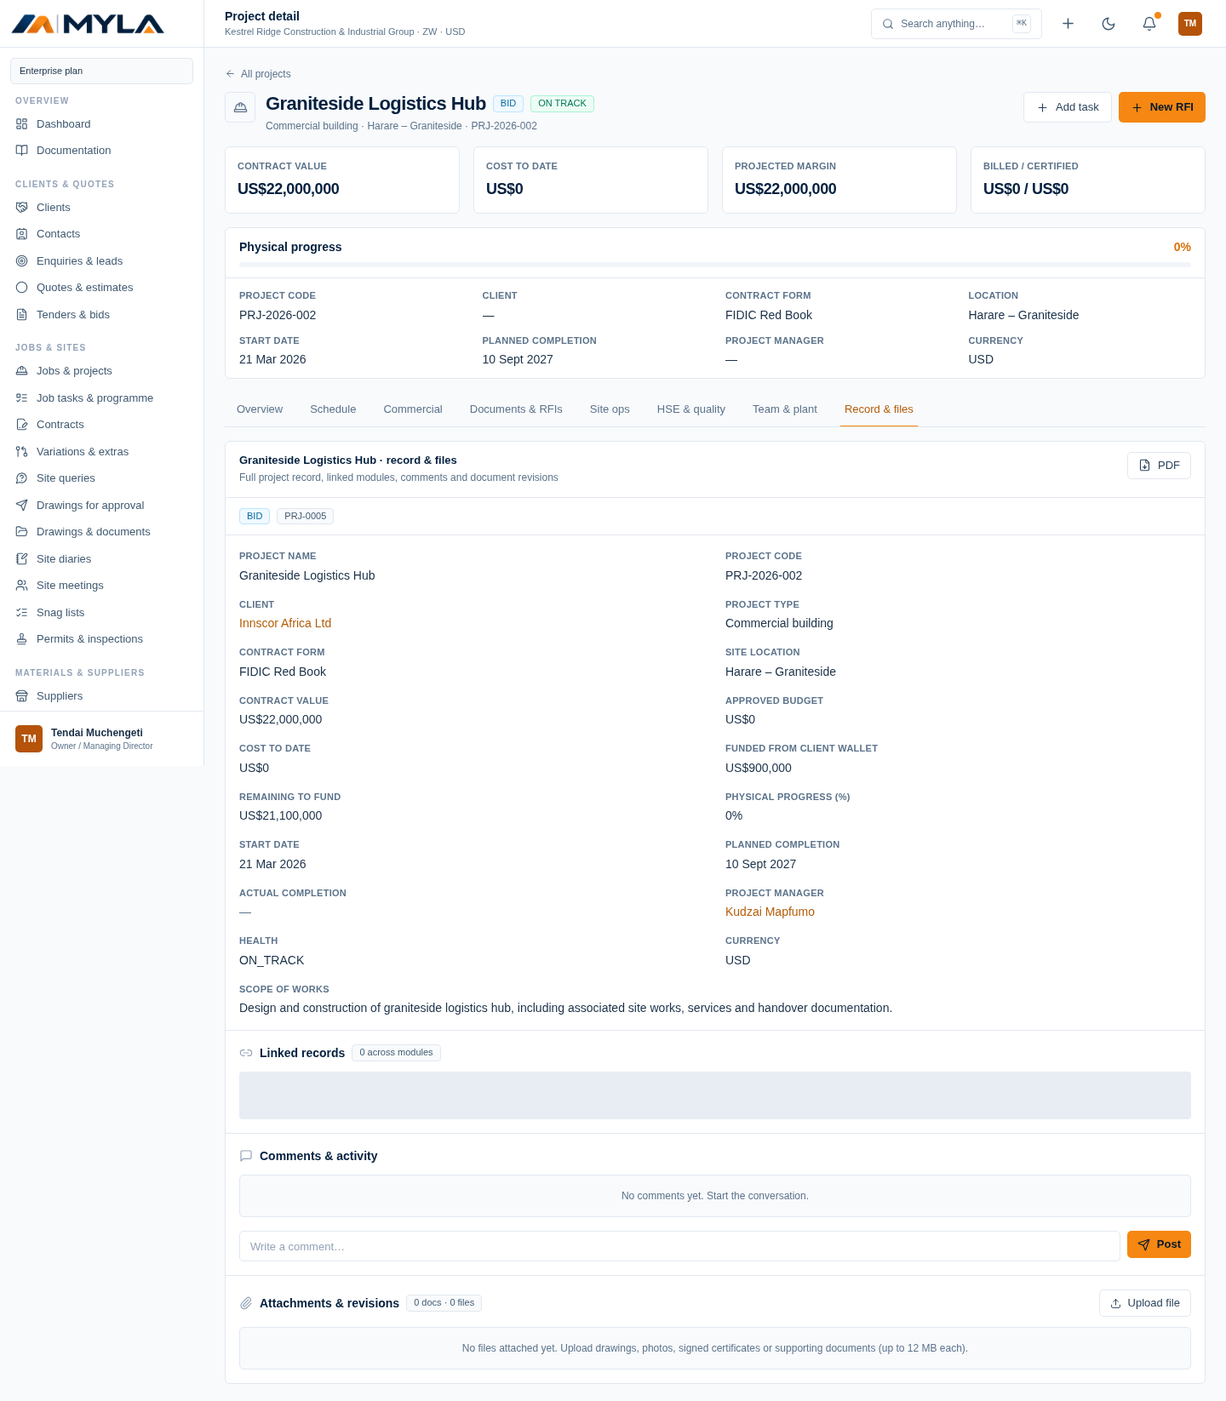
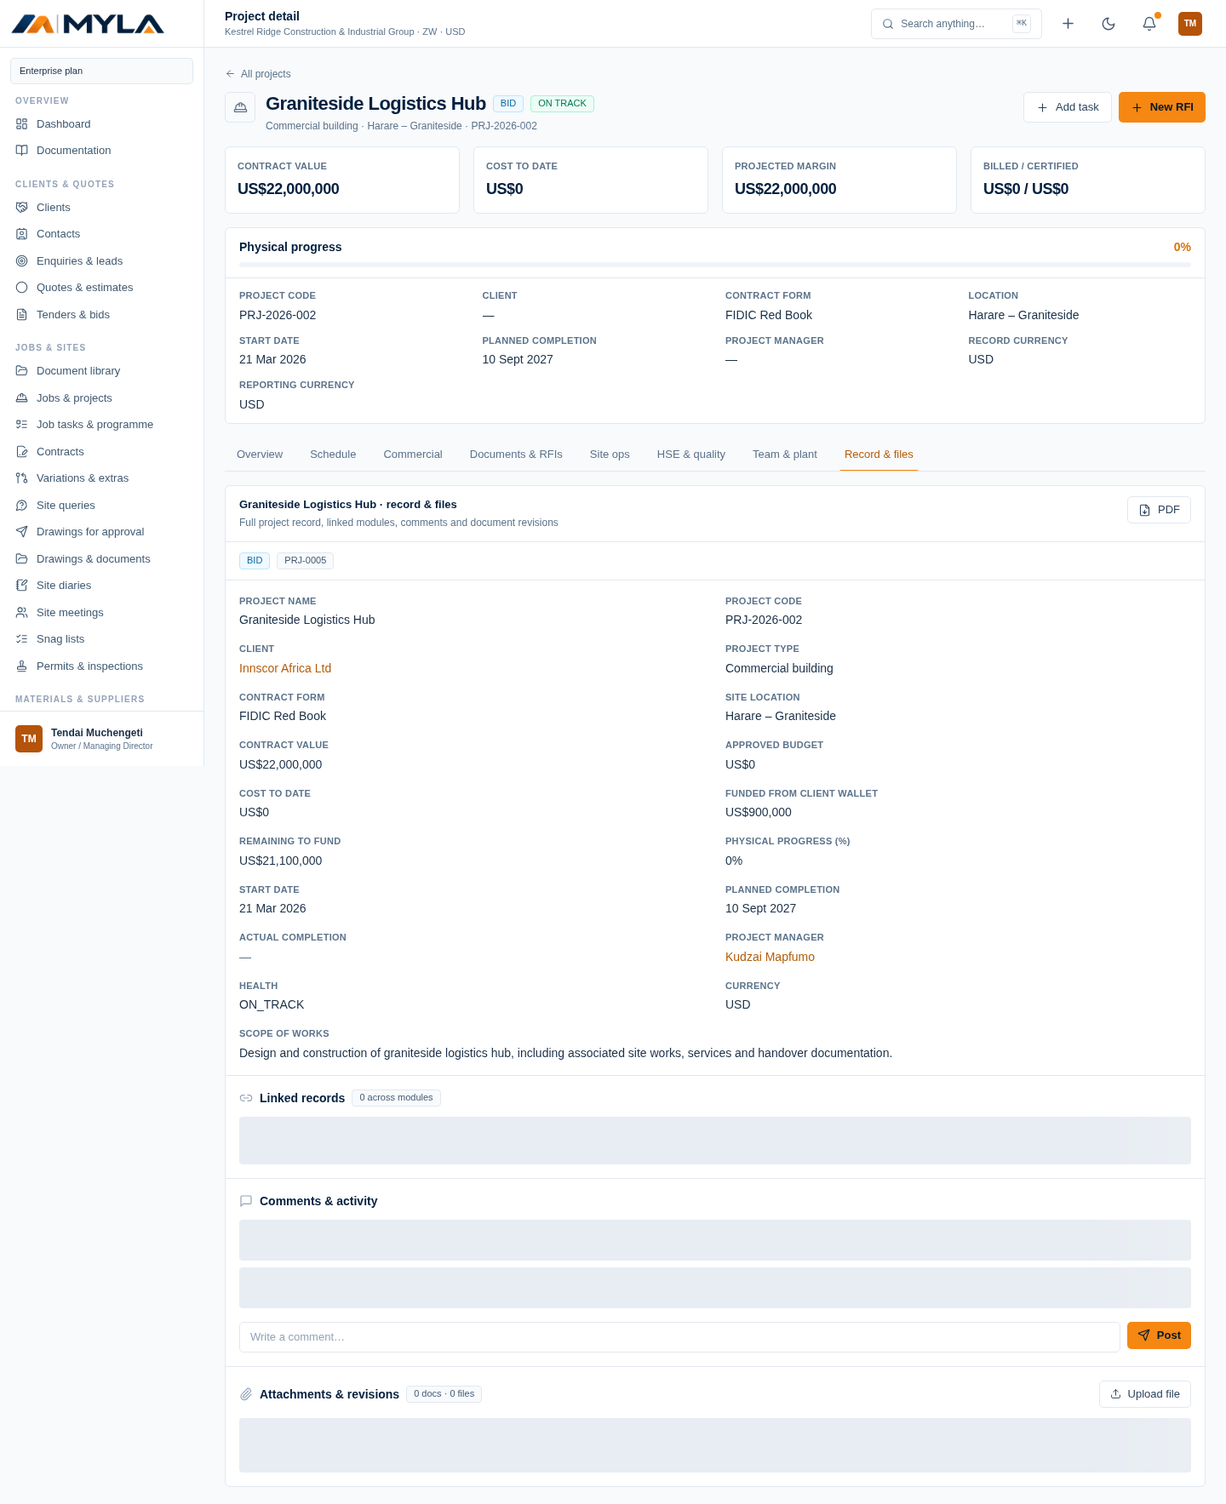
Record verified production release details and QA evidence
Document explicit commit 7bc17d0, Vercel deployment dpl_3xiHJ5Go5PTVEzoqbTDWdtWQW7wk, live Supabase migrations, production 16/16 feature QA and 8/8 project QA. Documentation/evidence only; no application code changed and no redeploy required.

diff --git a/PRODUCTION_DEPLOYMENT.md b/PRODUCTION_DEPLOYMENT.md
@@ -11,8 +11,8 @@
 | Branch alias | `https://myla-construction-erp-git-main-codzlabzim53-2563s-projects.vercel.app` |
 | Vercel project | `myla-construction-erp` / `prj_gShJxUcNTwjzIuiwdOhapx1fqskT` |
 | Team | `team_ueIKhxbPy42sX45n7gARWkWq` (Hobby) · region `iad1` |
-| Deployment | `dpl_HQ8PkC5tUEcpwbqeCBMd6ADmNXki` · state `READY` · `PROMOTED` · `timeToReady 63.1s` |
-| Source | `git@github.com:ckydoo/construction.git`, branch `main`, commit `c6b39e26e75e6ea387f92b0703dfd4c75b32fa9e` |
+| Deployment | `dpl_3xiHJ5Go5PTVEzoqbTDWdtWQW7wk` · state `READY` · `PROMOTED` · `timeToReady 66.4s` |
+| Deployment source | `git@github.com:ckydoo/construction.git`, branch `main`, explicit commit `7bc17d0050f809e209356c285eb757bb71cc1378` (docs-only commits may be ahead on `main`) |
 | Framework / runtime | Next.js 15 · Node `26.x` |
 | Install / build | `npm ci` · `npm run build` |
 | Database | Supabase `oeadisqfuyhelppinaxw` (Postgres + Auth + Storage + RLS), `eu-west-1` |
@@ -20,6 +20,38 @@
 The build completes in about a minute from the public GitHub commit; no source files are
 re-uploaded manually. The GitHub repo is public, which is why a `git_source` deployment
 works without installing the Vercel GitHub App.
+
+## Current release — row-scoped access, currencies and document library
+
+Production code is commit `7bc17d0` / `7bc17d0050f809e209356c285eb757bb71cc1378`, deployed with an
+explicit Vercel `git_source` SHA as `dpl_3xiHJ5Go5PTVEzoqbTDWdtWQW7wk`. It is `READY`, `PROMOTED`
+and aliased to **https://myla-construction-erp.vercel.app**. Only Owner/Admin see the whole
+company; other staff see their department plus assigned jobs. Settings manages base and enabled
+currencies with manual rates; dashboards, reports, wallets and job 360 convert into the base
+currency. A new document library provides automatic job folders, nested custom folders, upload,
+search, revisions and links to owning records.
+
+Live Supabase migrations for this release, confirmed in migration history:
+`20261110081729 staff_scope_and_document_folders`, `20261110083636 staff_scope_manager_create`
+and `20261110084902 staff_scope_refinements_v2`. The repository includes the generated
+baseline plus additive refinement files.
+
+Production verification after promotion:
+
+| Check | Result |
+|---|---|
+| `AUDIT_BASE=https://myla-construction-erp.vercel.app npm run audit:features` | **16/16 passed** |
+| `AUDIT_BASE=https://myla-construction-erp.vercel.app npm run audit:projects` | **8/8 passed** |
+| Owner/PM live API smoke | login `200`, meta/overview/wallets/library/integrity/records/search `200` |
+| Row scoping on production | owner 5 jobs / 9 wallets; PM `staff` scope, 2 wallets, 1 visible user |
+| Library isolation on production | hidden job/folder/file denied to PM; direct download `404` |
+| Currency and reporting on production | USD base, FX payload, base-currency wallet summary, project 360 display totals |
+| PDF / CSV on production | PDF `200 application/pdf`, CSV `200` |
+| QA cleanup on production | currency, staff assignment, records, files and folders restored |
+| Current live integrity | `ok:true` · 619 records · 1637 refs · 0 broken refs · 0 wallet mismatches · 9 client wallets · 6 funded wallet rows · 42 ledger entries · $11,000,000 balance |
+
+Evidence: `PRODUCTION_FEATURE_AUDIT_REPORT.md`, `PRODUCTION_PROJECT_SCALE_AUDIT_REPORT.md`,
+`screenshots/production-feature-library.png`, `screenshots/production-project-*.png`.
 
 ## Environment variables
 
@@ -53,7 +85,9 @@ never printed in this document):
   gives already-set platform variables precedence over `.env` file values, which the
   production login test confirms.
 
-## Production smoke tests (against the live URL)
+## Initial production smoke tests (historical)
+
+These checks were captured for the earlier visual / plain-language build; the current release's live verification is in **Current release** above.
 
 | Check | Result |
 |---|---|
@@ -93,6 +127,9 @@ never printed in this document):
 | `1aef83b` | `dpl_C4C7kSENehVwMBFEXBNBdgLz71wB` | Rewrote Documentation as a plain-language **business flow** and applied Zimbabwe/African small-contractor terminology across the sidebar, onboarding, dashboard, reports, settings and wallets |
 | `f830ea6` | — | Documentation-only closeout (not deployed) |
 | `c6b39e2` | `dpl_HQ8PkC5tUEcpwbqeCBMd6ADmNXki` | Opened every project as a full detail page with an eighth **Record & files** tab, added server-backed searchable dropdowns, pushed paging/filter/search/count into Postgres, and applied additive search/reference indexes |
+| `567774e` | — | Documentation-only closeout for the project-scale release (not deployed) |
+| `7bc17d0` | `dpl_3xiHJ5Go5PTVEzoqbTDWdtWQW7wk` | Row-scoped staff access, Settings multi-currency conversion and a dedicated document/drawing library with automatic and custom folders, revisions and scoped files |
+| docs/QA closeout | — | Production QA reports, screenshots and exact deployment verification; documentation/evidence only, not deployed |
 
 The sidebar change was verified on the live URL with a real Chromium session:
 53 nav items, zero numeric badges, zero digits anywhere in the sidebar, no
@@ -137,10 +174,14 @@ project with a GitHub `git_source`:
     "type": "github",
     "repo": "ckydoo/construction",
     "repoId": "1449142341",
-    "ref": "main"
+    "ref": "main",
+    "sha": "<exact-new-code-commit-sha>"
   }
 }
 ```
+
+Use the exact new code commit SHA rather than relying on the branch head. Documentation-only
+commits need no redeploy because they do not change the running application.
 
 Alternatively, install the Vercel GitHub App on the account and connect the repository
 in Project Settings → Git; that enables automatic preview/production deployments. Two
@@ -163,7 +204,7 @@ configuration.
 
 ## Project detail & larger-data release
 
-Commit `c6b39e2` (deployment `dpl_HQ8PkC5tUEcpwbqeCBMd6ADmNXki`) is the current production build. Clicking a project row, its **open full page** action, a command-palette result or a `?open=` link now opens `/{org}/projects/{id}` — never the side drawer. The full page gained an eighth **Record & files** tab with all project fields, linked modules, comments, attachments and PDF. All `ref` fields and project filters use a debounced, server-backed combobox. Register lists now page, filter, search, sort and count in Postgres; reverse links and project 360 filter at the database; and additive trigram/reference indexes were applied to Supabase. See `SCALABILITY_RELEASE.md` and `PROJECT_SCALE_AUDIT_REPORT.md`.
+Commit `c6b39e2` (deployment `dpl_HQ8PkC5tUEcpwbqeCBMd6ADmNXki`) was the project-scale production build at the time. Clicking a project row, its **open full page** action, a command-palette result or a `?open=` link now opens `/{org}/projects/{id}` — never the side drawer. The full page gained an eighth **Record & files** tab with all project fields, linked modules, comments, attachments and PDF. All `ref` fields and project filters use a debounced, server-backed combobox. Register lists now page, filter, search, sort and count in Postgres; reverse links and project 360 filter at the database; and additive trigram/reference indexes were applied to Supabase. See `SCALABILITY_RELEASE.md` and `PROJECT_SCALE_AUDIT_REPORT.md`.
 
 That build re-ran every gate: `npm run audit` **1211/1211** + **22/22** core, browser **28/28**, design **15/15** across 55 routes, onboarding **10/10** (QA orgs/users `0/0`), dedicated project QA **8/8** locally and **8/8** against the live alias, `env:check` OK, integrity `ok:true` 616 records / 1627 refs / 0 broken refs / 0 wallet mismatches, and a clean `$11,000,000` wallet balance. Production Chromium screenshots are in `screenshots/production-project-*.png`.
 
@@ -176,13 +217,11 @@ That build re-ran every gate: `npm run audit` **1211/1211** + **22/22** core, br
   account-level settings for public signup remains a separate, authorised-later task.
 - No custom domain was added; `myla-construction-erp.vercel.app` is the Vercel-assigned
   production alias.
-- No `vercel.json`, no `TZ` override and no auth, RLS, RBAC, validation or derivation
-  changes were made. The `c6b39e2` release added two **additive, idempotent**
-  Supabase migrations for search/reference indexes and a maintained `search_text`
-  column; no existing table column, policy, resource ID, module ID, role ID, status
-  value, field key, API path or RLS policy was altered. The new indexes and search
-  column are documented in `SCALABILITY_RELEASE.md` and `supabase/migrations/`.
-  **Resource IDs, module IDs, role IDs, status values, field keys, API paths, SQL,
-  RLS policies, the role matrix, validation rules and module derivation logic are
-  unchanged** — see `TERMINOLOGY.md`. The documentation page is read-only and uses no
-  new dependencies or external assets.
+- No `vercel.json` or `TZ` override was added. The earlier visual,
+  terminology and project-scale releases did not change auth, RLS, RBAC, validation or
+  module derivation. `c6b39e2` added two additive search/reference indexes and a
+  maintained `search_text` column. The current `7bc17d0` release intentionally changes
+  staff row-scope SQL functions and RLS policies, adds `document_folders` / folder keys,
+  and adds workspace currency configuration. Existing resource IDs, module IDs, role IDs,
+  status values, field keys, API paths, validation rules and module derivation logic were
+  preserved. See `RBAC_CURRENCY_LIBRARY_RELEASE.md` and `supabase/migrations/`.

diff --git a/LIVE_MVP_STATUS.md b/LIVE_MVP_STATUS.md
@@ -5,7 +5,7 @@
 **Date:** 2026-11-07 (Africa/Harare)
 **Repository:** `git@github.com:ckydoo/construction.git` · `main`
 **Production:** **https://myla-construction-erp.vercel.app** (Vercel, `iad1`, Node 26.x,
-built from commit `c6b39e2`, deployment `dpl_HQ8PkC5tUEcpwbqeCBMd6ADmNXki`) · full detail in `PRODUCTION_DEPLOYMENT.md`
+built from commit `7bc17d0`, deployment `dpl_3xiHJ5Go5PTVEzoqbTDWdtWQW7wk`) · full detail in `PRODUCTION_DEPLOYMENT.md`
 **Local runtime:** Next.js 15 on `0.0.0.0:3000`, backed by live Supabase
 `oeadisqfuyhelppinaxw` (Postgres + Auth + Storage + RLS).
 
@@ -24,25 +24,26 @@ payment — rather than the software architecture.
 | `npm run audit:browser` | **28/28 real-Chromium checks**, 0 unexpected console/page errors |
 | `npm run audit:onboarding` | **10/10 live signup/onboarding/tenancy/RBAC checks** |
 | `npm run audit:projects` | **8/8** project-detail / searchable-dropdown checks locally and on the live alias |
-| Wallet invariant | `[]` |
-| GitHub push | Full history, 190 files in a fresh clone at `c6b39e2`, no `.env`, 0 secret hits |
-| Visual QA | `node scripts/design-qa.mjs` **15/15** across 55 routes / five viewports |
+| `npm run audit:features` | **16/16** role / currency / library checks locally and **16/16** on the live alias |
+| Wallet invariant | 0 broken refs · 0 wallet mismatches · 0 wallet orphans · 0 funding mismatches |
+| GitHub code push | `7bc17d0` pushed; later documentation-only commits need no redeploy · no `.env`, 0 secret hits |
+| Visual QA | `node scripts/design-qa.mjs` **15/15** across 56 routes / five viewports |
 | Vercel production build | `READY`, promoted, 9 env vars across all three targets |
-| Production smoke | Login, 8 pages/APIs, branded PDF and upload→revision→download→delete all passed |
-| Demo data | 616 records, 49 resources, 7 users, 34 modules, 6 wallets, 4 PDFs |
-| QA fixture cleanup | 1 org, 7 memberships, 0 QA users, last-owner trigger enabled |
-| Final demo reseed | 616 records, 6 wallet rows, 14 ledger entries, 4 PDFs, integrity `ok` |
+| Production smoke | login, 8 pages/APIs, branded PDF, upload→revision→download→delete, library, FX and scoped PM access all passed |
+| Current live data | 619 records, 49 resources, 7 users, 34 modules, 9 client wallets, 6 funded wallet rows, 42 ledger entries, 5 jobs |
+| Production QA cleanup | USD base, PM staff assignment, 0 custom folders / 0 library files, 5 jobs, 9 wallets restored |
+| Current live integrity | `ok:true` · 619 records / 1637 refs · 0 broken refs · 0 wallet mismatches · `$11,000,000` balance |
 
 Full evidence: `AUDIT_REPORT.md`, `BROWSER_AUDIT_REPORT.md`,
-`ONBOARDING_AUDIT_REPORT.md`, `screenshots/`.
+`ONBOARDING_AUDIT_REPORT.md`, `FEATURE_AUDIT_REPORT.md`,
+`PRODUCTION_FEATURE_AUDIT_REPORT.md`, `PRODUCTION_PROJECT_SCALE_AUDIT_REPORT.md` and `screenshots/`.
 
 **Rebrand verification (MYLA):** typecheck/build and `npm run env:check` pass,
 the rebuilt app serves the MYLA title/favicon/motto/exact uppercase descriptor,
 browser audit re-run **28/28**, and both generated and seeded PDFs contain the
 new identity. Final live state is 1 org, 7 memberships, 616 records, 0 QA users,
 `ok=true` integrity and `$11,000,000` wallet balance. See `BRAND.md`. The
-1211/1211 API and 22/22 core-derivation gates were re-run on the exact build that
-is now published; the 10/10 onboarding suite was not re-run at that time because onboarding,
+1211/1211 API and 22/22 core-derivation gates were re-run on that released build; the 10/10 onboarding suite was not re-run at that time because onboarding,
 auth and derivation logic were unchanged; it was later re-run **10/10** after the
 plain-language terminology pass. Rebrand and visual-refinement files were
 committed as `8eb261a`, pushed to GitHub and deployed to Vercel.
@@ -59,7 +60,7 @@ release build and was not re-run for that pass. Live verification: 8 documentati
 sections, 2 inline SVG diagrams, no IT jargon, 9 plain-language sidebar sections,
 0 overflow and 0 errors.
 
-**Latest release — project detail & larger data:** `c6b39e2` makes every project open
+**Previous release — project detail & larger data:** `c6b39e2` makes every project open
 as a full page (eight tabs, including inline **Record & files**) instead of a side
 drawer, and replaces plain reference `<select>` controls with server-backed
 searchable dropdowns. Register paging, filtering, search, sorting and exact counts
@@ -72,6 +73,23 @@ browser **28/28**, design **15/15**, onboarding **10/10**, dedicated project QA
 **8/8** locally and **8/8** on the live alias, integrity `ok:true` / 616 records /
 1627 refs / 0 broken refs, and `$11,000,000` wallet balance. See
 `SCALABILITY_RELEASE.md` and `PROJECT_SCALE_AUDIT_REPORT.md`.
+
+**Latest release — row-scoped access, multi-currency and document library:** `7bc17d0`
+fixes the “every account shows the same data” problem. Only Owner/Admin see the whole
+company; other internal staff see their department, shared master data, own staff record
+and records on assigned jobs, while external portal scoping remains. Settings → Currencies
+manages base/enabled currencies and manual rates, with base-currency dashboard, reports,
+wallet and job 360 totals; records keep their entered currency and PDFs show a dual
+reporting total. A dedicated `/kestrel-ridge/library` page adds automatic
+`Project → Drawings / Contracts / Site photos / Handover` folders plus custom nested
+folders, upload/browse/search, revision chains and links to owning records. Three additive
+Supabase migrations enforce the same scope in Postgres RLS. Gates on this exact build:
+typecheck/build/env-check, `npm run audit` **1211/1211** + **22/22** core, browser **28/28**,
+design **15/15** across 56 routes, onboarding **10/10**, feature QA **16/16** locally and
+**16/16** on production, project QA **8/8** locally and **8/8** on production. Production
+deployment `dpl_3xiHJ5Go5PTVEzoqbTDWdtWQW7wk` is `READY` / `PROMOTED`. See
+`RBAC_CURRENCY_LIBRARY_RELEASE.md`, `PRODUCTION_FEATURE_AUDIT_REPORT.md` and
+`PRODUCTION_DEPLOYMENT.md`.
 
 ## What “complete MVP” means now
 

diff --git a/PRODUCTION_FEATURE_AUDIT_REPORT.md b/PRODUCTION_FEATURE_AUDIT_REPORT.md
@@ -1,0 +1,26 @@
+# Production role, currency and document-library QA
+
+- Base: `https://myla-construction-erp.vercel.app`
+- Production build: `7bc17d0050f809e209356c285eb757bb71cc1378` · `dpl_3xiHJ5Go5PTVEzoqbTDWdtWQW7wk`
+- Date: 2026-11-10T10:38:27.989Z
+- Result: **16/16 passed**
+- Screenshot: `screenshots/production-feature-library.png`
+
+| Check | Result | Detail |
+|---|---|---|
+| owner sees the whole company | PASS | 5 jobs · 9 wallets · 7 users |
+| internal staff see fewer jobs and fewer wallets than owner | PASS | project 2/2 · finance 2/2 · HR 2/2 · safety 4/4 · procurement 3/3 |
+| two staff roles have genuinely different job sets | PASS | PM 2 jobs · safety 4 jobs · hidden 36_prj-5 |
+| external client portal remains scoped | PASS | 1 job · 1 wallet |
+| wallet detail and global search deny hidden records | PASS | wallet 403 · search clean |
+| unassigned staff account sees no jobs, wallets or wallet money | PASS | cleared → 0 jobs / 0 wallets → restored |
+| Settings saves enabled currencies and manual rates | PASS | USD base · 5 currencies · ZWG 26 |
+| a ZWG invoice converts to USD in dashboard totals | PASS | 260000 ZWG → 10000 USD |
+| changing the base currency re-expresses every saved rate | PASS | USD → ZWG → ZAR, rates preserved |
+| Reports and wallets expose base-currency FX data | PASS | ZAR · 3 currency rows |
+| library exposes one folder per job and four automatic buckets | PASS | 5 jobs · Drawings / Contracts / Site photos / Handover |
+| nested custom folder, upload, revision chain and owning record | PASS | QA Structural ak1phh · Rev A/B · DOC-0045 |
+| moving a document keeps every revision in the new folder | PASS | both revisions moved to Contracts |
+| library hides folders and files on jobs a staff member cannot see | PASS | hidden from PM · download 404 |
+| document library page renders folders, search and record links | PASS | folders · search · revisions · record links |
+| QA cleanup restores live demo data | PASS | currency, assignment, records, files and folders restored |

diff --git a/RBAC_CURRENCY_LIBRARY_RELEASE.md b/RBAC_CURRENCY_LIBRARY_RELEASE.md
@@ -57,4 +57,27 @@ Feature QA evidence: `FEATURE_AUDIT_REPORT.md`, `FEATURE_AUDIT_REPORT.json`, `sc
 
 ## Deployment
 
-Production publishing uses a Vercel `git_source` deployment with the explicit code commit SHA. The exact commit, deployment ID and production verification are recorded in `PRODUCTION_DEPLOYMENT.md` and `LIVE_MVP_STATUS.md` after the deployment is promoted.
+Production code commit: `7bc17d0` / `7bc17d0050f809e209356c285eb757bb71cc1378`.
+Vercel production deployment: `dpl_3xiHJ5Go5PTVEzoqbTDWdtWQW7wk` (`READY` / `PROMOTED`, `git_source` with the explicit
+SHA above). Primary alias: **https://myla-construction-erp.vercel.app**.
+
+Live database migrations confirmed by Supabase migration history:
+`20261110081729 staff_scope_and_document_folders`,
+`20261110083636 staff_scope_manager_create`, and
+`20261110084902 staff_scope_refinements_v2`.
+
+Vercel `get_deployment` reconfirmed `READY` / `PROMOTED`, production target, the explicit
+source SHA above, alias assignment, `timeToReady 66385`, Node 26.x and `npm ci` + `npm run build`.
+
+Production verification after promotion:
+
+- `AUDIT_BASE=https://myla-construction-erp.vercel.app npm run audit:features` — **16/16**
+- `AUDIT_BASE=https://myla-construction-erp.vercel.app npm run audit:projects` — **8/8**
+- Live owner/PM API smoke — login, meta, overview, wallets, library, integrity, paged records,
+  reference search, global search, project 360, PDF and CSV all returned `200`
+- Production row scoping — owner 5 jobs / 9 wallets; PM `staff` scope with 2 wallets and 1 visible user
+- Production library isolation — hidden job/folder/file denied to PM; direct hidden download `404`
+- QA cleanup restored currency settings, staff assignment and all temporary records/files/folders
+
+Evidence: `PRODUCTION_FEATURE_AUDIT_REPORT.md`, `PRODUCTION_PROJECT_SCALE_AUDIT_REPORT.md`,
+`screenshots/production-feature-library.png`, `PRODUCTION_DEPLOYMENT.md` and `LIVE_MVP_STATUS.md`.

diff --git a/VISUAL_REFINEMENT_SUMMARY.md b/VISUAL_REFINEMENT_SUMMARY.md
@@ -102,15 +102,15 @@ files (1472 insertions / 681 deletions); a fresh clone has 166 files, no `.env` 
 secret-like hits. Later commits add deployment documentation, a sidebar cleanup
 that removes numeric record-count badges and the “N modules” label, an in-app
 plain-language business-flow guide and a Zimbabwe / Southern Africa terminology pass
-(`1aef83b`), and the full project-detail / larger-data release (`c6b39e2`).
+(`1aef83b`), the full project-detail / larger-data release (`c6b39e2`), and the row-scoped access / multi-currency / document-library release (`7bc17d0`).
 
 **Vercel:** project `myla-construction-erp` (`prj_gShJxUcNTwjzIuiwdOhapx1fqskT`) is live
 at **https://myla-construction-erp.vercel.app**, built from GitHub `main`
-(currently `c6b39e2`) via a `git_source` deployment (`dpl_HQ8PkC5tUEcpwbqeCBMd6ADmNXki`,
+(production code build `7bc17d0`; documentation-only commits may be ahead on `main`) via a `git_source` deployment (`dpl_3xiHJ5Go5PTVEzoqbTDWdtWQW7wk`,
 `READY` / `PROMOTED`, production, `iad1`, Node 26.x, `npm ci` + `npm run build`). Nine environment
 variables are set for all three targets, including write-only sensitive Supabase keys.
 
-**Production verification:** login (valid and invalid credentials), dashboard, wallets,
+**Production verification:** login (valid and invalid credentials), dashboard, wallets, row-scoped staff accounts, Settings currencies, document library,
 resource pages, meta/overview/integrity/wallets/records APIs, branded PDF generation,
 authentic logo assets, and a complete upload → Rev A → Rev B → download → delete storage
 cycle all passed. Integrity reported `ok:true`, 616 records, 0 broken refs and 0 wallet

diff --git a/PRODUCTION_PROJECT_SCALE_AUDIT_REPORT.md b/PRODUCTION_PROJECT_SCALE_AUDIT_REPORT.md
@@ -1,0 +1,19 @@
+# Project detail & scalability QA
+
+Base: `https://myla-construction-erp.vercel.app`
+Production build: `7bc17d0050f809e209356c285eb757bb71cc1378` · `dpl_3xiHJ5Go5PTVEzoqbTDWdtWQW7wk`
+
+**8/8 checks passed.**
+
+| Check | Result |
+| --- | --- |
+| owner signs in | ✅ session ready |
+| register list is paged on the database | ✅ 1 of 5 jobs · 5 pages |
+| project row click opens the full page, not a drawer | ✅ /kestrel-ridge/projects/5eb6b265-aa92-4eff-a36d-5a43f2f30836_prj-5 |
+| full project page exposes all sections and record/files panels | ✅ 8 tabs · fields, links, comments and revisions inline |
+| deep ?open= project link redirects to the full page | ✅ /kestrel-ridge/projects/prj-5 |
+| form reference dropdown searches the server | ✅ server search → Pomona Industrial Plant Expansion |
+| project filter dropdown is searchable | ✅ Pomona Industrial Plant Expansion · filtered rows visible |
+| no console or page errors | ✅ 0 errors |
+
+Evidence: `screenshots/production-project-detail-full-page.png`, `screenshots/production-project-detail-record-files.png`, `screenshots/production-project-searchable-dropdown.png`, `screenshots/production-project-searchable-filter.png`.
